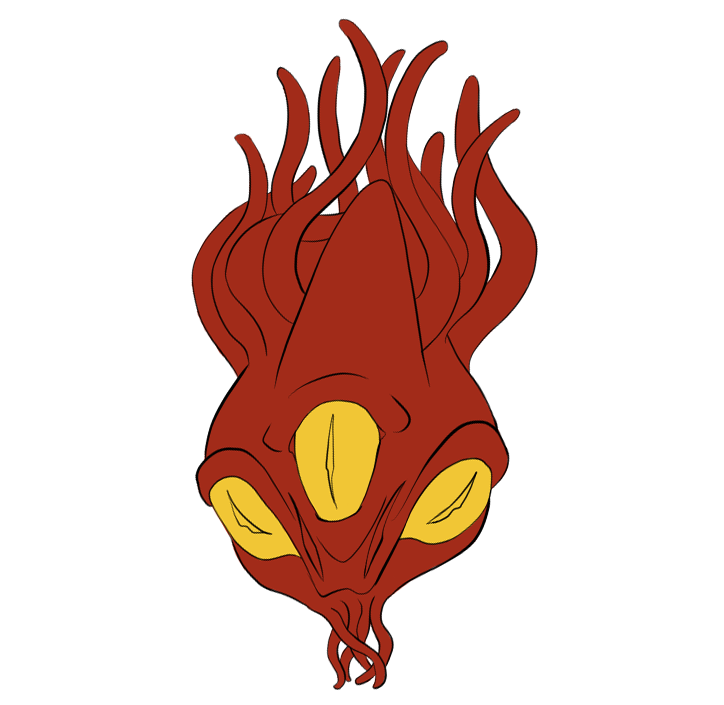
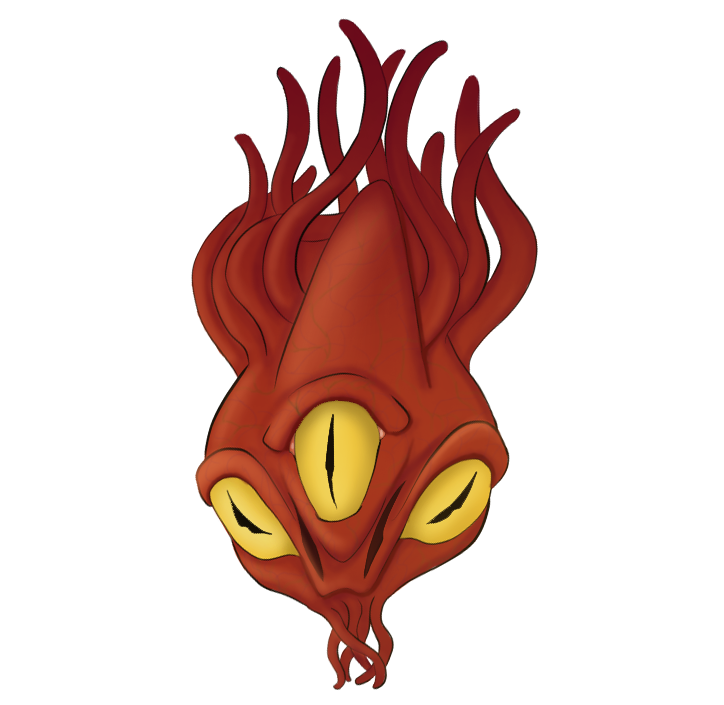
finish Rules && Update Sprites

diff --git a/Avikoids/src/Screens/Game.cpp b/Avikoids/src/Screens/Game.cpp
@@ -17,11 +17,13 @@ namespace asteroids
 		static void GameColitions();
 		static void Reset();
 		static void initSprites();
-		static void RulesUpdate();
+		static void PlayerRulesUpdate();
 		static void LoseUpdate(Screen& currentScene);
 		static void PauseButtonUpdate();
 		static void PausedUpdate(Screen& currentScreen);
 		static void InitGameMusic();
+		static void AlienRulesUpdate();
+		static void PowerUpRulesUpdate();
 
 		const int TOTAL_BIG_ASTEROIDS = 20;
 		const int TOTAL_MEDIUM_ASTEROIDS = 40;
@@ -30,24 +32,27 @@ namespace asteroids
 		Asteroid bigAsteroids[TOTAL_BIG_ASTEROIDS];
 		Asteroid mediumAsteroids[TOTAL_MEDIUM_ASTEROIDS];
 		Asteroid smallAsteroids[TOTAL_SMALL_ASTEROIDS];
-		
+
 		Spaceship player;
 
 		GameScenes actualScene;
 
-		Button showScore;
-		Button showPlayerLife;
-		Button showRules;
+		Button ShowScore;
+		Button ShowPlayerLife;
 		Button NextButton;
 		Button ReturnMenuButton;
 		Button PlayAganButton;
-		Button showPlayerHighscore;
+		Button ShowPlayerHighscore;
 		Button PauseButton;
 		Button PurpleRec;
 		Button MenuButton;
 		Button RestartButton;
 		Button ResumeButton;
 		Button BackGround;
+		Button ReturnButton;
+		Button ShowPlayerRules;
+		Button ShowAlienRules;
+		Button ShowPowerUpRules;
 
 		Music gameMusic;
 
@@ -59,11 +64,11 @@ namespace asteroids
 			initSprites();
 			InitPlayer(player);
 			InitAsteroids(bigAsteroids, mediumAsteroids, smallAsteroids);
-			Reset(); 
+			Reset();
 			InitGameMusic();
 			InitPowerUp();
 
-			actualScene = GameScenes::ShowRules;
+			actualScene = GameScenes::ShowPlayerRules;
 		}
 
 		void GameUpdate(Screen& currentScene)
@@ -81,9 +86,17 @@ namespace asteroids
 
 				PauseButtonUpdate();
 			}
-			else if (actualScene == GameScenes::ShowRules)
+			else if (actualScene == GameScenes::ShowPlayerRules)
 			{
-				RulesUpdate();
+				PlayerRulesUpdate();
+			}
+			else if (actualScene == GameScenes::ShowAlienRules)
+			{
+				AlienRulesUpdate();
+			}
+			else if (actualScene == GameScenes::ShowPowerUpsRules)
+			{
+				PowerUpRulesUpdate();
 			}
 			else if (actualScene == GameScenes::Lose)
 			{
@@ -102,10 +115,22 @@ namespace asteroids
 		{
 			DrawButton(BackGround);
 
-			if (actualScene == GameScenes::ShowRules)
+			if (actualScene == GameScenes::ShowPlayerRules)
 			{
-				DrawTextureEx(showRules.sprite, showRules.position, 0, showRules.scale, showRules.color);
-				DrawTextureEx(NextButton.sprite, NextButton.position, 0, NextButton.scale, NextButton.color);
+				DrawButton(ShowPlayerRules);
+				DrawButton(NextButton);
+			}
+			else if (actualScene == GameScenes::ShowAlienRules)
+			{
+				DrawButton(ShowAlienRules);
+				DrawButton(NextButton);
+				DrawButton(ReturnButton);
+			}
+			else if (actualScene == GameScenes::ShowPowerUpsRules)
+			{
+				DrawButton(ShowPowerUpRules);
+				DrawButton(NextButton);
+				DrawButton(ReturnButton);
 			}
 			else if (actualScene == GameScenes::Playing)
 			{
@@ -120,20 +145,20 @@ namespace asteroids
 
 				DrawAsteroid(bigAsteroids, mediumAsteroids, smallAsteroids);
 
-				DrawText(TextFormat("SCORE: %i", player.score), static_cast<int>(showScore.position.x), static_cast<int>(showScore.position.y), showScore.fontSize, showScore.color);
-				DrawText(TextFormat("LIVES: %i", player.lives), static_cast<int>(showPlayerLife.position.x), static_cast<int>(showPlayerLife.position.y), showPlayerLife.fontSize, showPlayerLife.color);
+				DrawText(TextFormat("SCORE: %i", player.score), static_cast<int>(ShowScore.position.x), static_cast<int>(ShowScore.position.y), ShowScore.fontSize, ShowScore.color);
+				DrawText(TextFormat("LIVES: %i", player.lives), static_cast<int>(ShowPlayerLife.position.x), static_cast<int>(ShowPlayerLife.position.y), ShowPlayerLife.fontSize, ShowPlayerLife.color);
 
 				DrawButton(PauseButton);
 			}
 			else if (actualScene == GameScenes::Lose)
 			{
-				showScore.position = { 100, 300 };
-				showScore.fontSize = 60;
+				ShowScore.position = { 100, 300 };
+				ShowScore.fontSize = 60;
 
-				DrawText(TextFormat("HIGHSCORE: %i", player.highScore), static_cast<int>(showPlayerHighscore.position.x), static_cast<int>(showPlayerHighscore.position.y), showPlayerHighscore.fontSize, showPlayerHighscore.color);
-				DrawText(TextFormat("YOUR SCORE WAS: %i", player.score), static_cast<int>(showScore.position.x), static_cast<int>(showScore.position.y), showScore.fontSize, showScore.color);
-				DrawTextureEx(PlayAganButton.sprite, PlayAganButton.position, 0, PlayAganButton.scale, PlayAganButton.color);
-				DrawTextureEx(ReturnMenuButton.sprite, ReturnMenuButton.position, 0, ReturnMenuButton.scale, ReturnMenuButton.color);
+				DrawText(TextFormat("HIGHSCORE: %i", player.highScore), static_cast<int>(ShowPlayerHighscore.position.x), static_cast<int>(ShowPlayerHighscore.position.y), ShowPlayerHighscore.fontSize, ShowPlayerHighscore.color);
+				DrawText(TextFormat("YOUR SCORE WAS: %i", player.score), static_cast<int>(ShowScore.position.x), static_cast<int>(ShowScore.position.y), ShowScore.fontSize, ShowScore.color);
+				DrawButton(PlayAganButton);
+				DrawButton(ReturnMenuButton);
 			}
 			else if (actualScene == GameScenes::Paused)
 			{
@@ -141,7 +166,7 @@ namespace asteroids
 				DrawButton(MenuButton);
 				DrawButton(RestartButton);
 				DrawButton(ResumeButton);
-			
+
 			}
 		}
 
@@ -279,17 +304,13 @@ namespace asteroids
 
 		static void initSprites()
 		{
-			showScore.fontSize = 40;
-			showScore.position = { 30,30 };
-			showScore.color = BLACK;
+			ShowScore.fontSize = 40;
+			ShowScore.position = { 30,30 };
+			ShowScore.color = BLACK;
 
-			showPlayerLife.fontSize = 40;
-			showPlayerLife.position = { 30,70 };
-			showPlayerLife.color = BLACK;
-
-			showRules.position = { 140,100 };
-			showRules.scale = 1;
-			showRules.sprite = LoadTexture("res/PNG/Game/Rules/ShowRules.png");
+			ShowPlayerLife.fontSize = 40;
+			ShowPlayerLife.position = { 30,70 };
+			ShowPlayerLife.color = BLACK;
 
 			NextButton.position = { 600,600 };
 			NextButton.scale = 0.6f;
@@ -299,9 +320,9 @@ namespace asteroids
 			ReturnMenuButton.scale = 0.6f;
 			ReturnMenuButton.sprite = LoadTexture("res/PNG/Game/Lose/ReturnMenuButton.png");
 
-			showPlayerHighscore.position = { 100, 150 };
-			showPlayerHighscore.fontSize = 80;
-			showPlayerHighscore.color = MAROON;
+			ShowPlayerHighscore.position = { 100, 150 };
+			ShowPlayerHighscore.fontSize = 80;
+			ShowPlayerHighscore.color = MAROON;
 
 			PlayAganButton.position = { 400,450 };
 			PlayAganButton.scale = 0.6f;
@@ -318,7 +339,7 @@ namespace asteroids
 			ResumeButton.position = { 370,250 };
 			ResumeButton.scale = 0.7f;
 			ResumeButton.sprite = LoadTexture("res/PNG/Game/Pause/ResumeButton.png");
-			
+
 			RestartButton.position = { 370,400 };
 			RestartButton.scale = 0.7f;
 			RestartButton.sprite = LoadTexture("res/PNG/Game/Pause/RestartButton.png");
@@ -331,9 +352,24 @@ namespace asteroids
 			BackGround.scale = 1;
 			BackGround.sprite = LoadTexture("res/PNG/Game/GameBackGround.png");
 
+			ReturnButton.position = { 200,600 };
+			ReturnButton.scale = 0.6f;
+			ReturnButton.sprite = LoadTexture("res/PNG/Game/Rules/BackButton.png");
+
+			ShowPlayerRules.position = { 140,100 };
+			ShowPlayerRules.scale = 1;
+			ShowPlayerRules.sprite = LoadTexture("res/PNG/Game/Rules/ShowRules.png");
+
+			ShowAlienRules.position = { 140,100 };
+			ShowAlienRules.scale = 1;
+			ShowAlienRules.sprite = LoadTexture("res/PNG/Game/Rules/ShowAlienRules.png");
+
+			ShowPowerUpRules.position = { 140,100 };
+			ShowPowerUpRules.scale = 1;
+			ShowPowerUpRules.sprite = LoadTexture("res/PNG/Game/Rules/ShowPowerUpRules.png");
 		}
 
-		static void RulesUpdate()
+		static void PlayerRulesUpdate()
 		{
 			if (MouseMenuColision(NextButton))
 			{
@@ -344,7 +380,7 @@ namespace asteroids
 					InitPlayer(player);
 					initSprites();
 					Reset();
-					actualScene = GameScenes::Playing;
+					actualScene = GameScenes::ShowAlienRules;
 				}
 			}
 			else
@@ -361,7 +397,7 @@ namespace asteroids
 
 				if (IsMouseButtonPressed(MOUSE_BUTTON_LEFT))
 				{
-					actualScene = GameScenes::ShowRules;
+					actualScene = GameScenes::ShowPlayerRules;
 					currentScene = Screen::Menu;
 				}
 			}
@@ -376,7 +412,7 @@ namespace asteroids
 
 				if (IsMouseButtonPressed(MOUSE_BUTTON_LEFT))
 				{
-					actualScene = GameScenes::ShowRules;
+					actualScene = GameScenes::ShowPlayerRules;
 				}
 			}
 			else
@@ -384,7 +420,7 @@ namespace asteroids
 				PlayAganButton.color = WHITE;
 			}
 		}
-		
+
 		static void PauseButtonUpdate()
 		{
 			if (MouseMenuColision(PauseButton))
@@ -412,7 +448,7 @@ namespace asteroids
 				if (IsMouseButtonPressed(MOUSE_BUTTON_LEFT))
 				{
 					currentScreen = Screen::Menu;
-					actualScene = GameScenes::ShowRules;
+					actualScene = GameScenes::ShowPlayerRules;
 				}
 			}
 			else
@@ -426,7 +462,7 @@ namespace asteroids
 
 				if (IsMouseButtonPressed(MOUSE_BUTTON_LEFT))
 				{
-					actualScene = GameScenes::ShowRules;
+					actualScene = GameScenes::ShowPlayerRules;
 				}
 			}
 			else
@@ -462,6 +498,70 @@ namespace asteroids
 			PlayerDeadSound = LoadSound("res/MUSIC/SoundEffects/PlayerDeadSound.mp3");
 			SetSoundVolume(AsteroidHitSound, 0.1f);
 			SetSoundVolume(PlayerDeadSound, 0.1f);
+		}
+
+		static void AlienRulesUpdate()
+		{
+			if (MouseMenuColision(NextButton))
+			{
+				NextButton.color = GRAY;
+
+				if (IsMouseButtonPressed(MOUSE_BUTTON_LEFT))
+				{
+					actualScene = GameScenes::ShowPowerUpsRules;
+				}
+			}
+			else
+			{
+				NextButton.color = WHITE;
+			}
+
+			if (MouseMenuColision(ReturnButton))
+			{
+				ReturnButton.color = GRAY;
+
+				if (IsMouseButtonPressed(MOUSE_BUTTON_LEFT))
+				{
+					actualScene = GameScenes::ShowPlayerRules;
+				}
+			}
+			else
+			{
+				ReturnButton.color = WHITE;
+			}
+
+
+		}
+
+		static void PowerUpRulesUpdate()
+		{
+			if (MouseMenuColision(NextButton))
+			{
+				NextButton.color = GRAY;
+
+				if (IsMouseButtonPressed(MOUSE_BUTTON_LEFT))
+				{
+					actualScene = GameScenes::Playing;
+				}
+			}
+			else
+			{
+				NextButton.color = WHITE;
+			}
+
+			if (MouseMenuColision(ReturnButton))
+			{
+				ReturnButton.color = GRAY;
+
+				if (IsMouseButtonPressed(MOUSE_BUTTON_LEFT))
+				{
+					actualScene = GameScenes::ShowAlienRules;
+				}
+			}
+			else
+			{
+				ReturnButton.color = WHITE;
+			}
 		}
 	}
 };

diff --git a/Avikoids/src/ScreenManagements/GameScenes.h b/Avikoids/src/ScreenManagements/GameScenes.h
@@ -6,8 +6,9 @@ namespace asteroids
 	{
 		enum class GameScenes
 		{
-			ShowRules = 1,
-			ShowPowerUps,
+			ShowPlayerRules = 1,
+			ShowAlienRules,
+			ShowPowerUpsRules,
 			Playing,
 			Paused,
 			Lose

diff --git a/Avikoids/src/Objects/SpaceShip.cpp b/Avikoids/src/Objects/SpaceShip.cpp
@@ -11,6 +11,7 @@ namespace asteroids
 
 		double autoShootingTimer = GetTime();
 
+
 		Sound Shoot;
 
 
